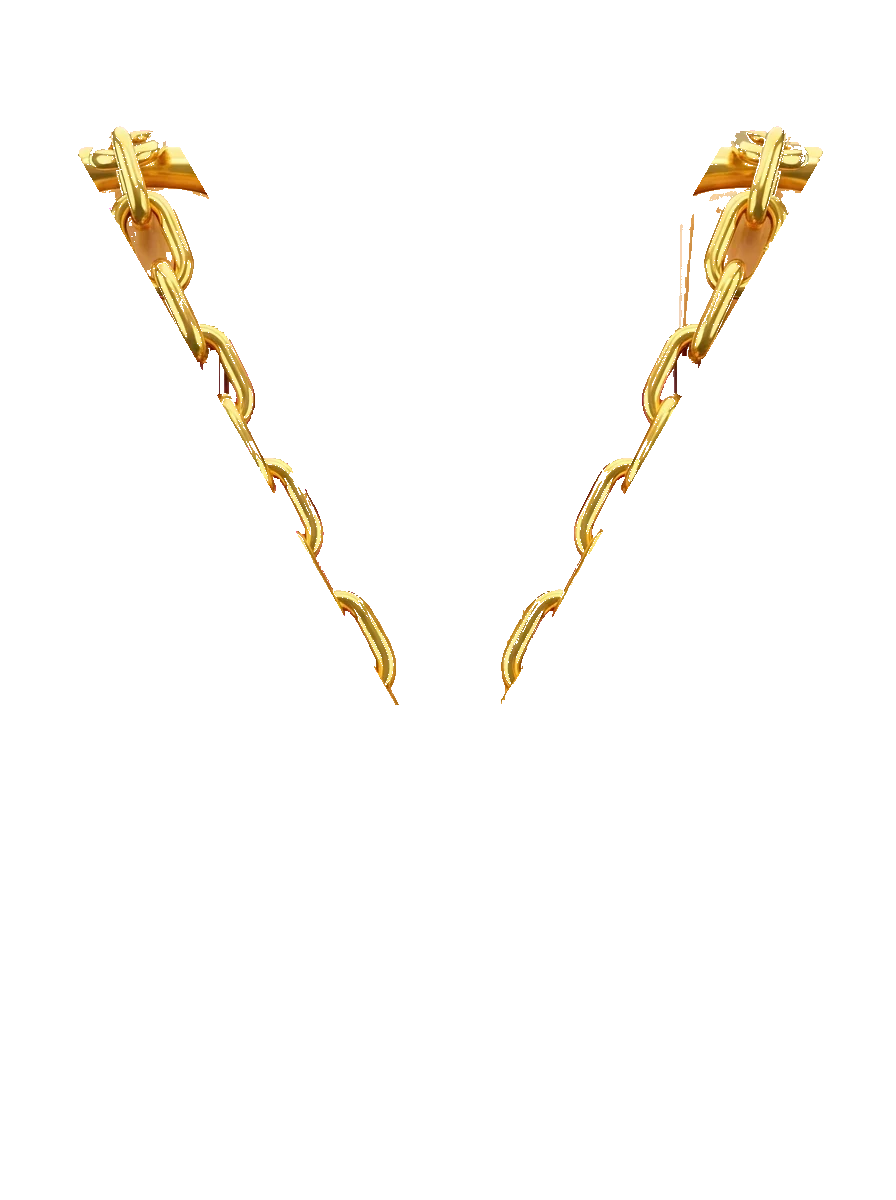
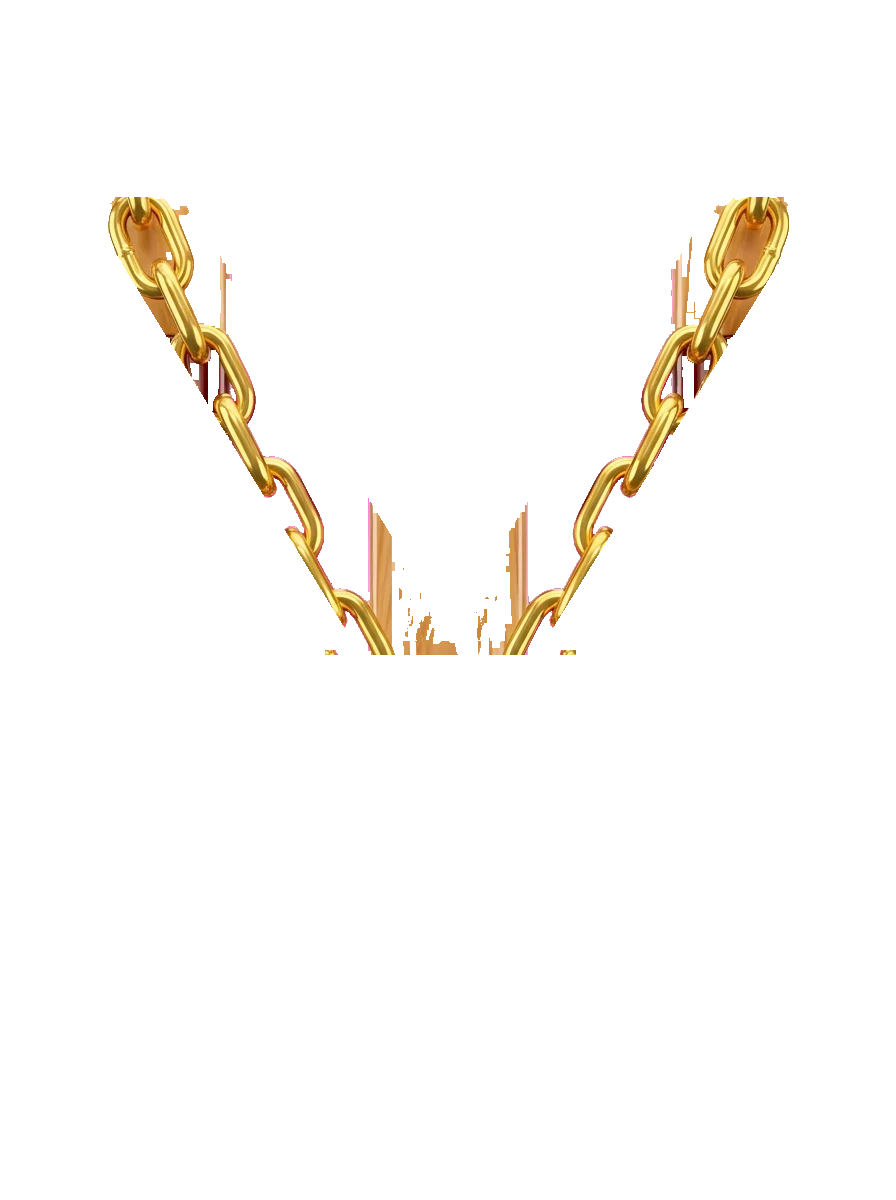
2.2: original chain art back (moving with the cleaned-up animation); bigger white ball
Claude-Session: https://claude.ai/code/session_01EnXvJ6P6HcGRxjBSnYPdAU

diff --git a/www/assets/v22.js b/www/assets/v22.js
@@ -380,7 +380,7 @@
   .tcard.pt.locked .lockx.st.open .chn,.lockx.st.open .chn{animation:chDrop .9s .42s cubic-bezier(.5,0,.8,.6) forwards!important}
   @keyframes chDrop{25%{transform:translateY(-3%) rotate(-6deg)}100%{transform:translateY(60%) rotate(18deg);opacity:0}}
   .tcard.pt.locked .lockx.st.open .bail_l{animation:blOff .9s .42s cubic-bezier(.2,.6,.4,1) forwards!important}.tcard.pt.locked .lockx.st.open .bail_r{animation:brOff .9s .42s cubic-bezier(.2,.6,.4,1) forwards!important}
-  .tcard .lockx.st .ball,.tcard.pt.locked .lockx.st .ball{width:24%!important;left:38%!important;top:40%!important;background:radial-gradient(circle at 35% 30%,#fff,#f1efe6 45%,#b9b4a6)!important;box-shadow:0 3px 6px rgba(0,0,0,.35)}
+  .tcard .lockx.st .ball,.tcard.pt.locked .lockx.st .ball{width:34%!important;left:33%!important;top:36%!important;background:radial-gradient(circle at 35% 30%,#fff,#f1efe6 45%,#b9b4a6)!important;box-shadow:0 3px 6px rgba(0,0,0,.35)}
   .tcard .lockx.st .ball::after{border-left-color:rgba(60,60,70,.55)!important}
   /* clean unlock sequence */
   .tcard .lockx.st.open .stk>*,.tcard .lockx.st.open .chn,.tcard .lockx.st.open .ext{animation:none!important}
